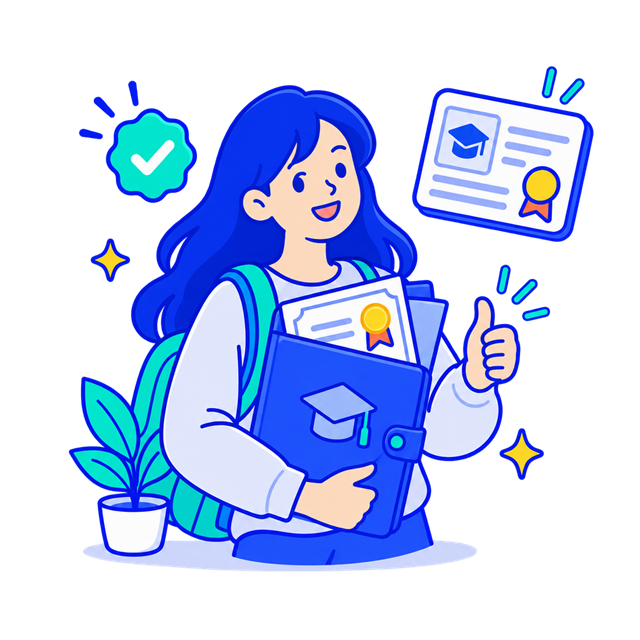
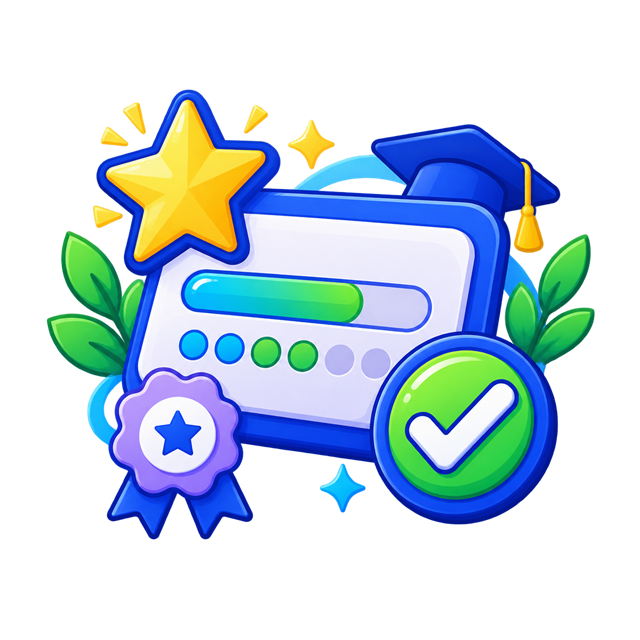
Refine Student Hub sticker backgrounds

diff --git a/src/index.css b/src/index.css
@@ -172,7 +172,7 @@ button:active:not(:disabled), a.btn:active:not(:disabled) {
 }
 .student-header-sticker {
   padding: 0.25rem;
-  filter: drop-shadow(0 6px 10px rgba(7, 9, 77, 0.08));
+  filter: drop-shadow(0 6px 10px rgba(7, 9, 77, 0.06));
 }
 .student-event-card,
 .student-chapter-card,
